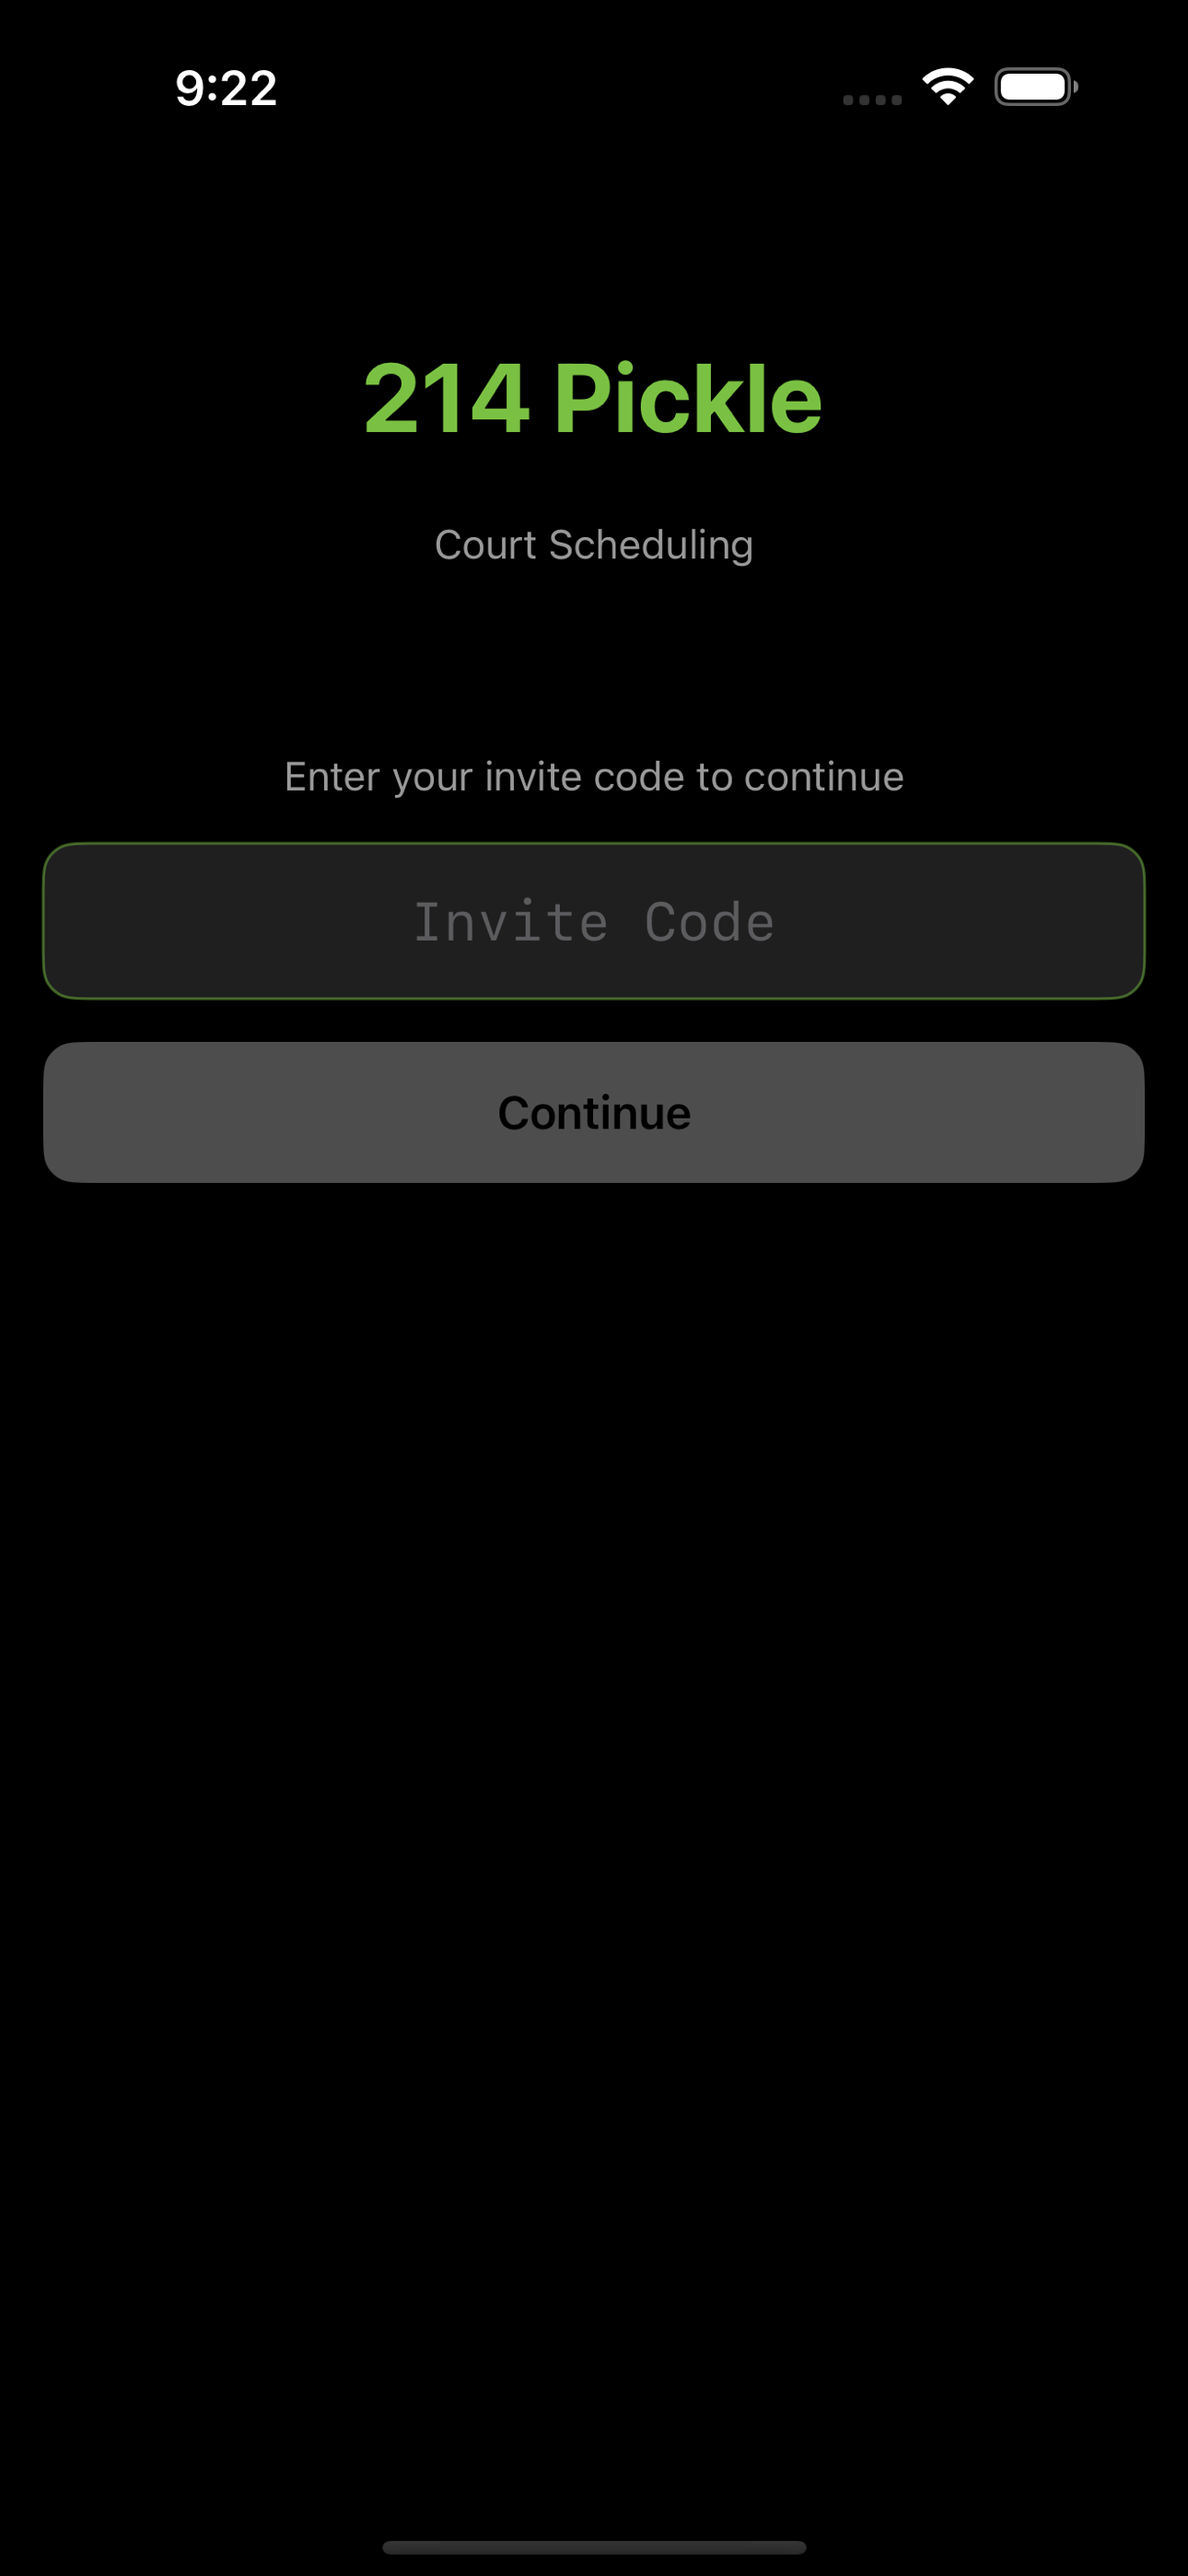
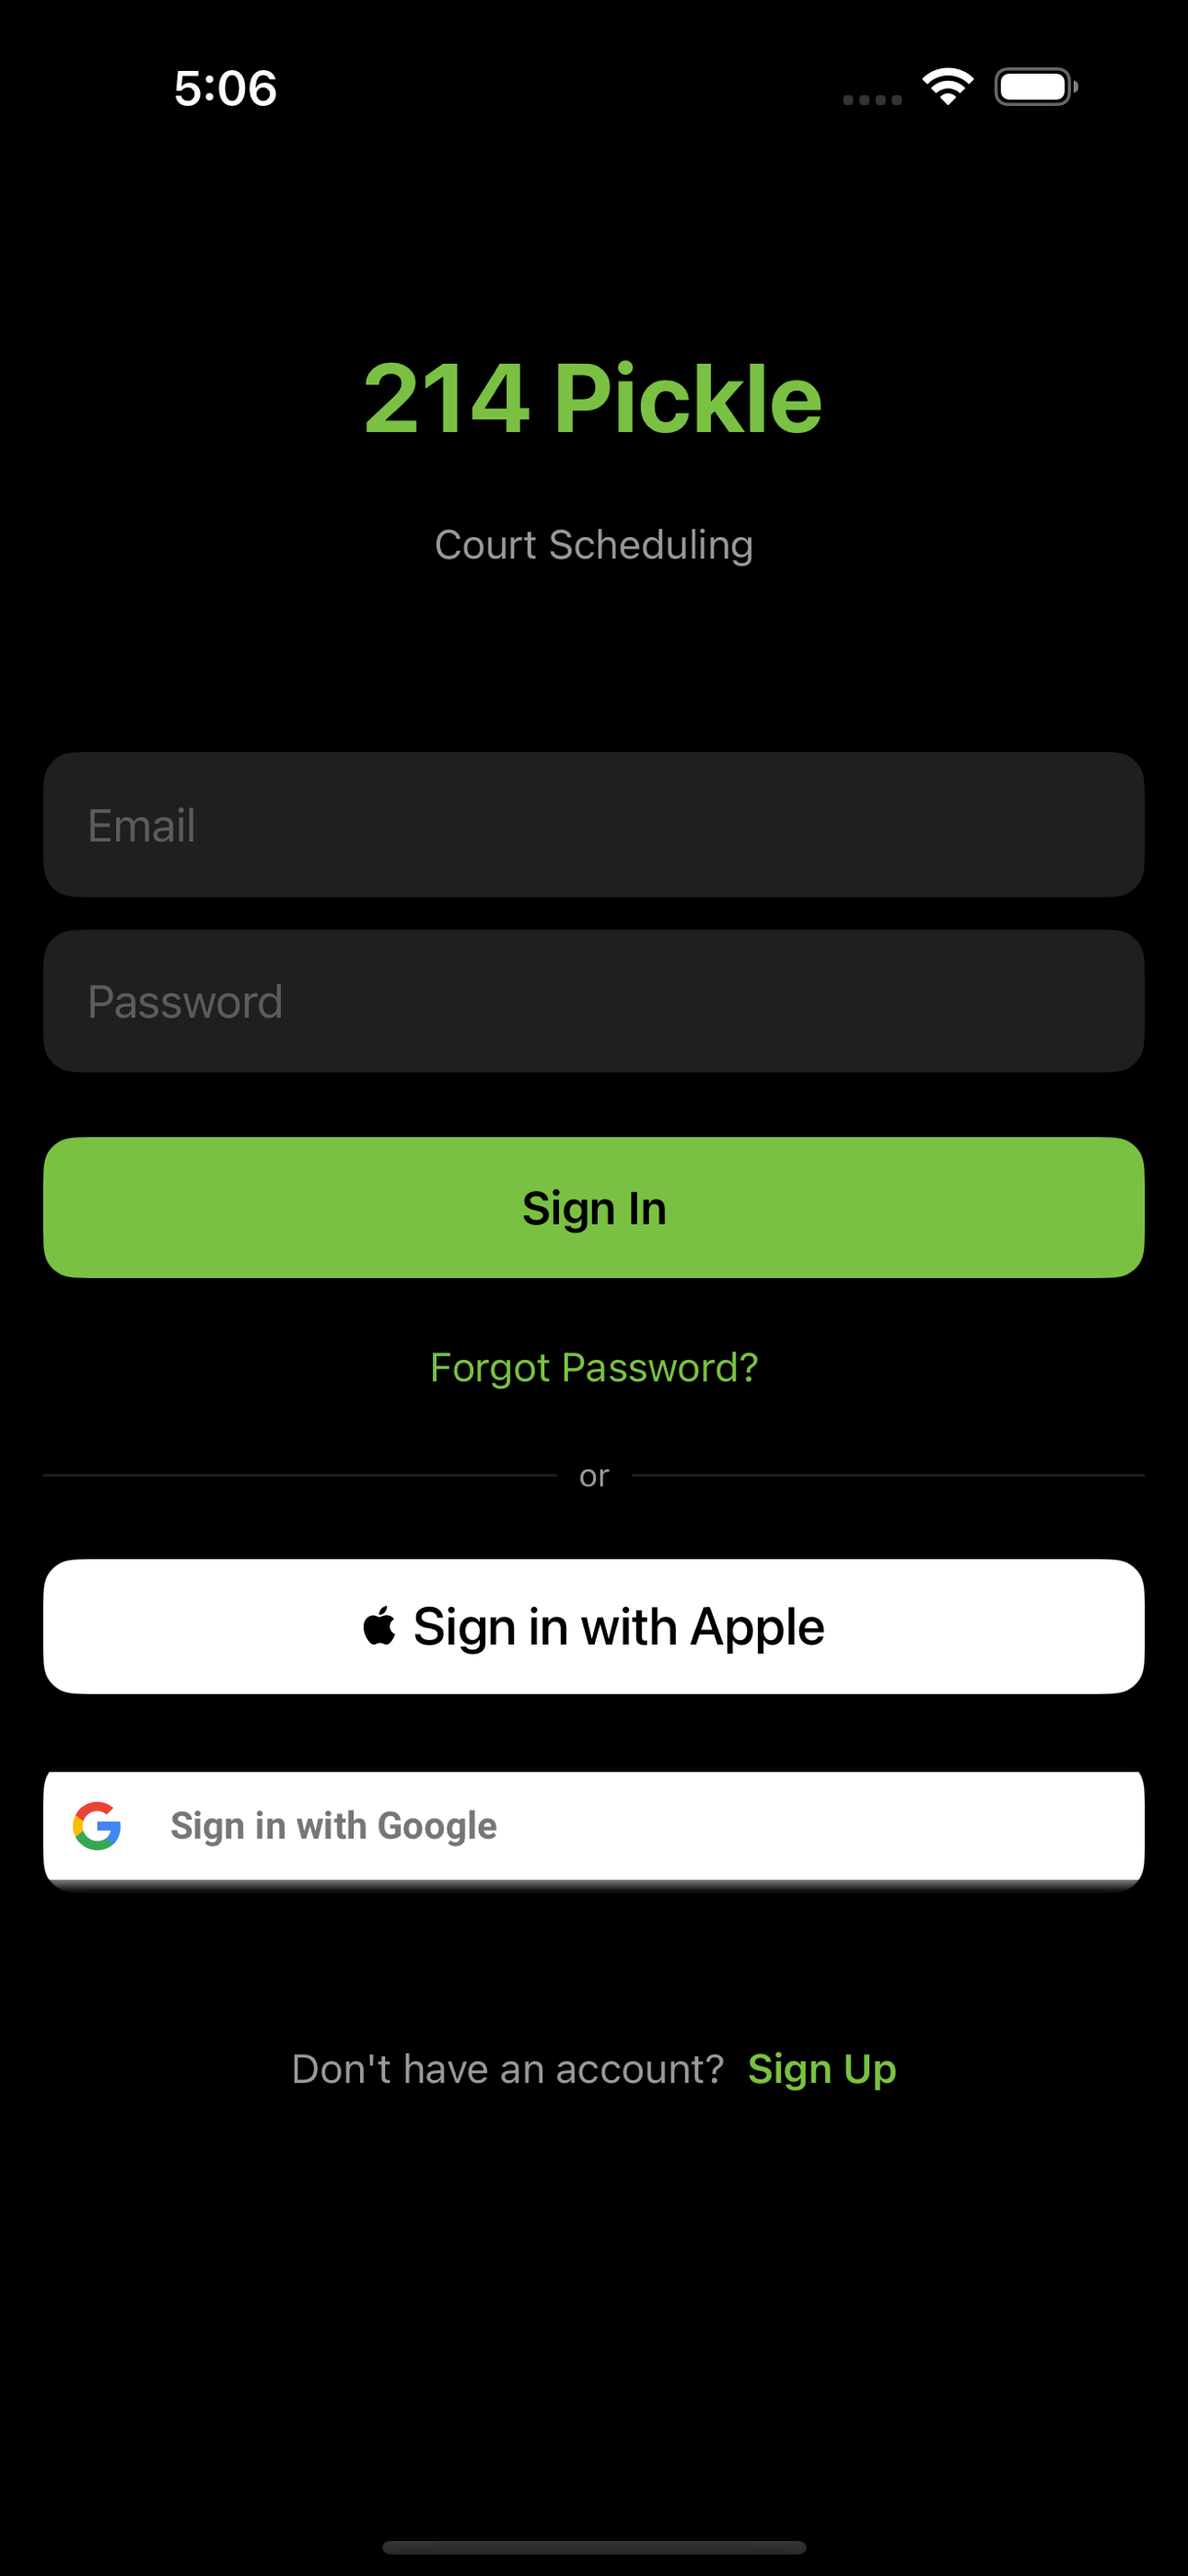
chore: fastlane config, encryption plist key, iPhone-only, App Store screenshots

diff --git a/ios/fastlane/README.md b/ios/fastlane/README.md
@@ -1,0 +1,40 @@
+fastlane documentation
+----
+
+# Installation
+
+Make sure you have the latest version of the Xcode command line tools installed:
+
+```sh
+xcode-select --install
+```
+
+For _fastlane_ installation instructions, see [Installing _fastlane_](https://docs.fastlane.tools/#installing-fastlane)
+
+# Available Actions
+
+## iOS
+
+### ios metadata
+
+```sh
+[bundle exec] fastlane ios metadata
+```
+
+Push metadata and screenshots to App Store Connect
+
+### ios submit
+
+```sh
+[bundle exec] fastlane ios submit
+```
+
+Push metadata and submit for review
+
+----
+
+This README.md is auto-generated and will be re-generated every time [_fastlane_](https://fastlane.tools) is run.
+
+More information about _fastlane_ can be found on [fastlane.tools](https://fastlane.tools).
+
+The documentation of _fastlane_ can be found on [docs.fastlane.tools](https://docs.fastlane.tools).
